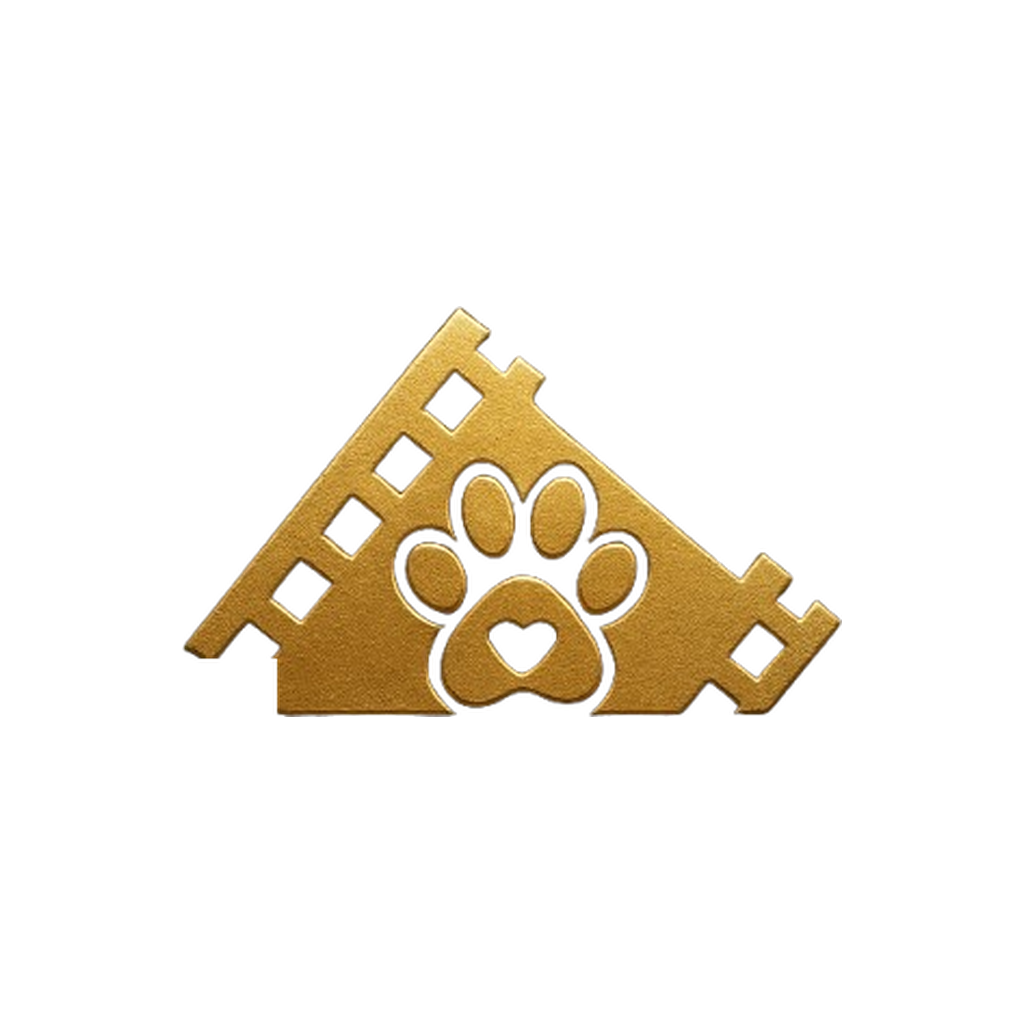
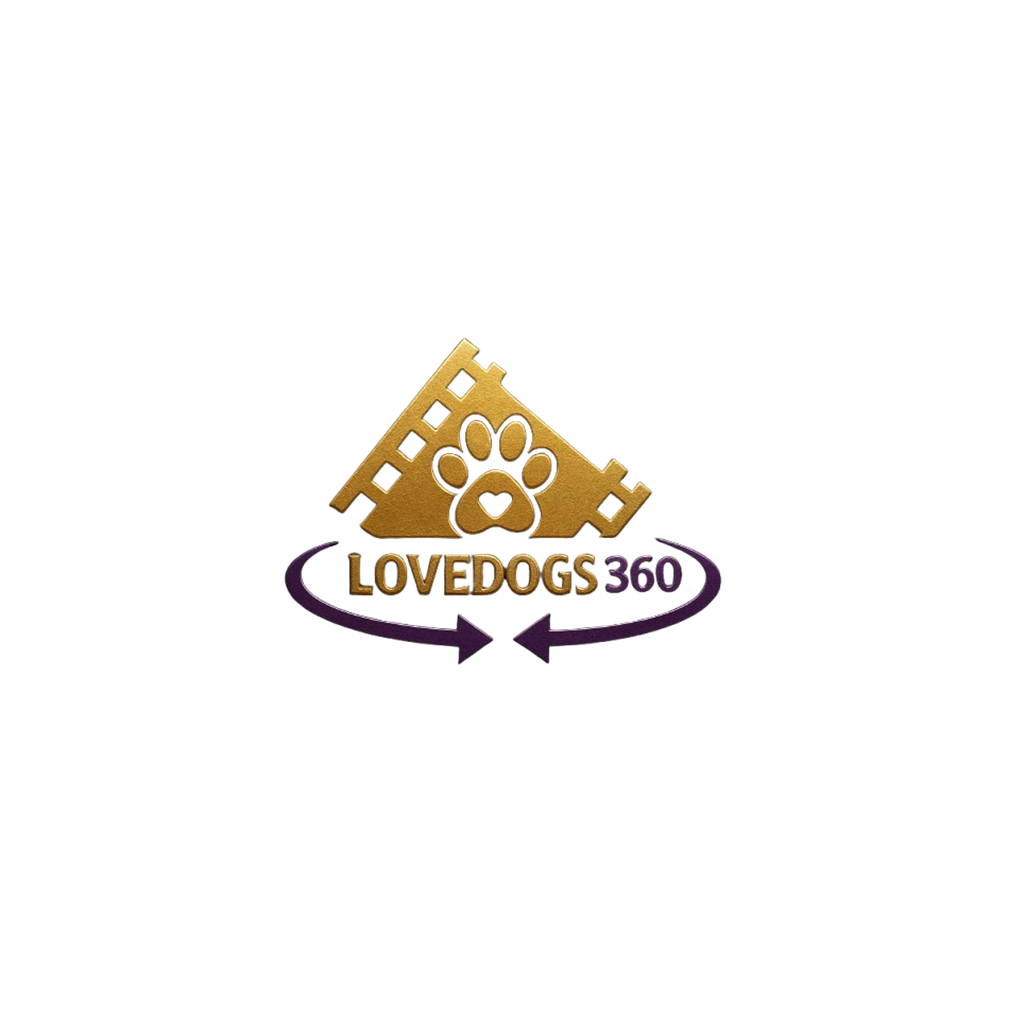
Fix health passport photo and splash branding

Changed region(s): [[0.1562, 0.2812, 0.8438, 0.7188]]

diff --git a/frontend/src/screens/HealthPassportScreen.tsx b/frontend/src/screens/HealthPassportScreen.tsx
@@ -1,11 +1,25 @@
 
 import React, { useState, useEffect } from 'react';
-import { View, Text, StyleSheet, ScrollView, TouchableOpacity, SafeAreaView, ActivityIndicator, Alert, Share } from 'react-native';
+import { View, Text, StyleSheet, ScrollView, TouchableOpacity, SafeAreaView, ActivityIndicator, Alert, Share, Image } from 'react-native';
 import { useTranslation } from 'react-i18next';
 import { Ionicons } from '@expo/vector-icons';
 import { COLORS, SPACING, SHADOWS } from '../constants/theme';
 import client from '../api/client';
 // import * as Print from 'expo-print'; // Optional: Use if available in environment
+
+const getPetPassportImageUri = (pet: any) => {
+    const candidates = [
+        pet?.body_image,
+        pet?.image_url,
+        pet?.profile_image,
+        pet?.photo_url,
+        pet?.birthmark_image,
+        pet?.nose_print_image,
+        Array.isArray(pet?.images) ? pet.images[0] : null,
+    ];
+    const imageUri = candidates.find((candidate) => typeof candidate === 'string' && candidate.trim().length > 0);
+    return typeof imageUri === 'string' ? imageUri.trim() : null;
+};
 
 export const HealthPassportScreen = ({ route, navigation }: any) => {
     const { t } = useTranslation();
@@ -13,6 +27,7 @@ export const HealthPassportScreen = ({ route, navigation }: any) => {
     const [loading, setLoading] = useState(true);
     const [dog, setDog] = useState<any>(null);
     const [records, setRecords] = useState<any[]>([]);
+    const [petImageLoadFailed, setPetImageLoadFailed] = useState(false);
 
     useEffect(() => {
         fetchPassportData();
@@ -21,6 +36,7 @@ export const HealthPassportScreen = ({ route, navigation }: any) => {
     const fetchPassportData = async () => {
         try {
             setLoading(true);
+            setPetImageLoadFailed(false);
             const [dogRes, recordsRes] = await Promise.all([
                 client.get(`/dogs/${dogId}`),
                 client.get(`/dogs/${dogId}/health-records`)
@@ -105,6 +121,7 @@ export const HealthPassportScreen = ({ route, navigation }: any) => {
 
     const healthStatus = getHealthStatus();
     const nextDueDates = getNextDueDates();
+    const passportImageUri = getPetPassportImageUri(dog);
 
     return (
         <SafeAreaView style={styles.safeArea}>
@@ -123,7 +140,16 @@ export const HealthPassportScreen = ({ route, navigation }: any) => {
                 <View style={styles.idCard}>
                     <View style={styles.idHeader}>
                         <View style={styles.profileCircle}>
-                            <Ionicons name="paw" size={40} color={COLORS.white} />
+                            {passportImageUri && !petImageLoadFailed ? (
+                                <Image
+                                    source={{ uri: passportImageUri }}
+                                    style={styles.profileImage}
+                                    resizeMode="cover"
+                                    onError={() => setPetImageLoadFailed(true)}
+                                />
+                            ) : (
+                                <Ionicons name="paw" size={40} color={COLORS.white} />
+                            )}
                         </View>
                         <View style={styles.idMeta}>
                             <Text style={styles.dogName}>{dog.name}</Text>
@@ -203,7 +229,8 @@ const styles = StyleSheet.create({
     content: { padding: SPACING.lg },
     idCard: { backgroundColor: COLORS.primary, borderRadius: 20, padding: 24, ...SHADOWS.medium, marginBottom: 25 },
     idHeader: { flexDirection: 'row', alignItems: 'center', marginBottom: 20 },
-    profileCircle: { width: 80, height: 80, borderRadius: 40, backgroundColor: 'rgba(255,255,255,0.2)', justifyContent: 'center', alignItems: 'center', borderWidth: 2, borderColor: COLORS.accent },
+    profileCircle: { width: 80, height: 80, borderRadius: 40, backgroundColor: 'rgba(255,255,255,0.2)', justifyContent: 'center', alignItems: 'center', borderWidth: 2, borderColor: COLORS.accent, overflow: 'hidden' },
+    profileImage: { width: '100%', height: '100%' },
     idMeta: { marginLeft: 20 },
     dogName: { fontSize: 24, fontWeight: 'bold', color: COLORS.white },
     dogBreed: { fontSize: 16, color: COLORS.white, opacity: 0.8 },